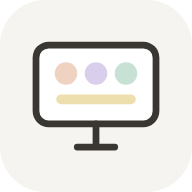
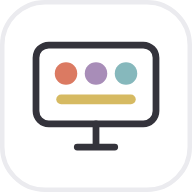
White background and a muted pastel palette
Ten muted pastel tones (coral, teal, mustard, lavender, pink, sage, apricot, periwinkle, mauve, moss) on a white background, each with a text shade that meets 4.5:1 contrast. Team boxes are outlined in the palette colour. Icon updated to match; offline cache bumped to v5.

diff --git a/styles.css b/styles.css
@@ -6,17 +6,17 @@
   font-display: swap;
 }
 
-/* ---------- Palette: warm neutrals + muted pastels ---------- */
+/* ---------- Palette: white + muted pastels ---------- */
 :root {
-  --bg: #f6f4f0;
+  --bg: #ffffff;
   --surface: #ffffff;
-  --hover: #f3f1ec;
-  --line: #ebe7e0;
-  --line-strong: #dcd7ce;
-  --ink: #34312d;
-  --ink-soft: #7c776f;
-  --ink-faint: #b2ada4;
-  --charcoal: #3a3733;
+  --hover: #f4f4f7;
+  --line: #ebebef;
+  --line-strong: #d9d9e0;
+  --ink: #2f2e35;
+  --ink-soft: #6f6d78;
+  --ink-faint: #aeacb7;
+  --charcoal: #34333b;
 
   --ui: "Figtree", "Segoe UI", system-ui, sans-serif;
   --hand: "Edu NSW ACT Foundation", "Figtree", cursive;
@@ -27,16 +27,21 @@
   --rail-w: 88px;
 
   /* default tone (overridden by .tone-*) */
-  --t-bg: #f1eee8;
-  --t-mid: #e0dbd2;
-  --t-ink: #6f6a62;
+  --t-bg: #f4f4f7;
+  --t-mid: #d9d9e0;
+  --t-ink: #5d5b66;
 }
-.tone-peach    { --t-bg: #fbeee7; --t-mid: #f0d2c3; --t-ink: #a5634d; }
-.tone-lavender { --t-bg: #f0ecf7; --t-mid: #d9cfec; --t-ink: #74629d; }
-.tone-mint     { --t-bg: #e8f3ee; --t-mid: #c7e2d5; --t-ink: #4c8470; }
-.tone-sky      { --t-bg: #e8f0f7; --t-mid: #c9dbec; --t-ink: #4d7398; }
-.tone-rose     { --t-bg: #f8eaee; --t-mid: #ebcbd4; --t-ink: #9b5d6f; }
-.tone-butter   { --t-bg: #faf3de; --t-mid: #eedfae; --t-ink: #87703a; }
+/* muted pastels: tint (backgrounds), mid (outlines, accents), ink (text, readable on white and tint) */
+.tone-coral      { --t-bg: #f8e4e0; --t-mid: #db7a62; --t-ink: #a8472f; }
+.tone-teal       { --t-bg: #e7f1f2; --t-mid: #86b8bc; --t-ink: #447074; }
+.tone-mustard    { --t-bg: #f7f1e0; --t-mid: #d6ba62; --t-ink: #7d6827; }
+.tone-lavender   { --t-bg: #eee8f1; --t-mid: #a88db8; --t-ink: #7b5c8d; }
+.tone-pink       { --t-bg: #f8e9ef; --t-mid: #dc93ae; --t-ink: #af4169; }
+.tone-sage       { --t-bg: #ebf3ed; --t-mid: #9dc3a6; --t-ink: #4c7656; }
+.tone-apricot    { --t-bg: #f9ece4; --t-mid: #e2a27a; --t-ink: #9e572a; }
+.tone-periwinkle { --t-bg: #e8eaf1; --t-mid: #8e95ba; --t-ink: #5c6590; }
+.tone-mauve      { --t-bg: #f3ebf0; --t-mid: #c59ab6; --t-ink: #8e567b; }
+.tone-moss       { --t-bg: #eff5eb; --t-mid: #afcb9c; --t-ink: #557441; }
 
 * { box-sizing: border-box; }
 [hidden] { display: none !important; }
@@ -106,7 +111,7 @@ button { cursor: pointer; }
 }
 .rail-slides { background: var(--charcoal); color: #fff; }
 .rail-install { color: var(--ink); background: var(--bg); }
-.rail-slides:hover { background: #4a4641; color: #fff; }
+.rail-slides:hover { background: #4a4952; color: #fff; }
 
 .rail-btn:focus-visible, .btn:focus-visible, .w-btn:focus-visible, .switch-card:focus-visible,
 .w-select:focus-visible, .x:focus-visible {
@@ -121,7 +126,7 @@ body.rail-hidden #rail { display: none; }
   background: var(--surface); color: var(--ink-soft);
   font-size: 20px; font-weight: 700;
   padding: 10px 12px 12px; opacity: .6;
-  box-shadow: 0 6px 20px -8px #34312d40;
+  box-shadow: 0 6px 20px -8px #2f2e3540;
 }
 #rail-show:hover { opacity: 1; }
 body.rail-hidden #rail-show { display: block; }
@@ -140,13 +145,13 @@ body.dragging iframe { pointer-events: none; }
 .empty .btn { font-size: 18px; padding: 14px 28px; }
 
 .pdf-wrap { flex: 1; min-width: 0; display: grid; place-items: center; position: relative; overflow: hidden; }
-.pdf-wrap canvas { background: #fff; display: block; border-radius: 6px; box-shadow: 0 2px 16px -6px #34312d33; }
+.pdf-wrap canvas { background: #fff; display: block; border-radius: 6px; box-shadow: 0 2px 16px -6px #2f2e3533; }
 .pdf-nav {
   position: absolute; bottom: 16px; left: 50%; transform: translateX(-50%);
   display: flex; align-items: center; gap: 6px;
   background: #ffffffe6; color: var(--ink); border: 1px solid var(--line);
   border-radius: 999px; padding: 6px; font-weight: 600;
-  box-shadow: 0 8px 24px -10px #34312d40;
+  box-shadow: 0 8px 24px -10px #2f2e3540;
   opacity: .4; transition: opacity .15s;
 }
 .pdf-wrap:hover .pdf-nav, .pdf-nav:focus-within { opacity: 1; }
@@ -167,17 +172,17 @@ body.dragging iframe { pointer-events: none; }
 }
 .btn:hover { background: var(--hover); }
 .btn.primary { background: var(--charcoal); border-color: var(--charcoal); color: #fff; }
-.btn.primary:hover { background: #4a4641; }
+.btn.primary:hover { background: #4a4952; }
 .btn.danger { color: #a4524a; }
 .btn.small { padding: 5px 12px; font-size: 14px; }
 
 dialog {
   border: 0; border-radius: var(--r-xl); padding: 0; width: min(580px, calc(100vw - 32px));
   max-height: calc(100vh - 48px); color: var(--ink); background: var(--surface);
-  box-shadow: 0 30px 80px -20px #34312d59;
+  box-shadow: 0 30px 80px -20px #2f2e3559;
 }
 dialog[open] { display: flex; flex-direction: column; }
-dialog::backdrop { background: #34312d40; backdrop-filter: blur(3px); }
+dialog::backdrop { background: #2f2e3540; backdrop-filter: blur(3px); }
 .dlg-head { display: flex; align-items: center; padding: 20px 22px 8px 26px; margin: 0; }
 .dlg-head h2 { margin: 0; flex: 1; font-size: 22px; font-weight: 600; }
 .x { border: 0; background: transparent; color: var(--ink-soft); font-size: 18px; width: 40px; height: 40px; border-radius: 50%; }
@@ -251,7 +256,7 @@ dialog::backdrop { background: #34312d40; backdrop-filter: blur(3px); }
   position: fixed; display: flex; flex-direction: column;
   background: var(--surface); border-radius: var(--r-xl);
   border: 1px solid var(--line);
-  box-shadow: 0 1px 2px #34312d0d, 0 18px 40px -14px #34312d40;
+  box-shadow: 0 1px 2px #2f2e350d, 0 18px 40px -14px #2f2e3540;
   min-width: 190px; min-height: 150px; overflow: hidden;
 }
 .w-head {
@@ -311,7 +316,7 @@ dialog::backdrop { background: #34312d40; backdrop-filter: blur(3px); }
 
 /* groups */
 .groups { flex: 1; min-height: 0; overflow-y: auto; display: grid; gap: 8px; grid-template-columns: repeat(auto-fill, minmax(124px, 1fr)); align-content: start; }
-.group { background: var(--t-bg); border-radius: var(--r-md); padding: 10px 12px 12px; }
+.group { background: var(--t-bg); border-radius: var(--r-md); padding: 10px 12px 12px; border-top: 4px solid var(--t-mid); }
 .group h4 { margin: 0 0 4px; font-size: 11px; font-weight: 600; text-transform: uppercase; letter-spacing: .08em; color: var(--t-ink); }
 .group ul { margin: 0; padding: 0; list-style: none; font-family: var(--hand); font-weight: 500; font-size: 19px; line-height: 1.4; color: var(--ink); }
 
@@ -331,12 +336,12 @@ dialog::backdrop { background: #34312d40; backdrop-filter: blur(3px); }
 .die {
   --s: min(calc(80cqw / var(--cols)), calc(48cqh / var(--rows)));
   width: var(--s); height: var(--s); border-radius: 24%;
-  background: #fff; border: max(1.5px, calc(var(--s) * .025)) solid #5d5953;
+  background: #fff; border: max(1.5px, calc(var(--s) * .025)) solid #55545c;
   display: grid; grid-template: repeat(3, 1fr) / repeat(3, 1fr); padding: 13%;
   box-shadow: 0 calc(var(--s) * .04) 0 var(--t-mid);
 }
 .die i { border-radius: 50%; margin: 16%; }
-.die i.p { background: #4f4b46; }
+.die i.p { background: #45444c; }
 .die.num { display: grid; place-items: center; padding: 0; font-weight: 600; font-size: calc(var(--s) * .45); grid-template: none; color: var(--ink); }
 .die.roll { animation: shake .12s linear infinite; }
 @keyframes shake { 25% { transform: rotate(-6deg); } 75% { transform: rotate(6deg); } }
@@ -394,12 +399,12 @@ dialog::backdrop { background: #34312d40; backdrop-filter: blur(3px); }
 .gbg-teams { flex: 1; min-width: 0; display: grid; gap: 6px; grid-template-columns: repeat(var(--n), minmax(0, 1fr)); }
 .gbg-team {
   min-width: 0; display: flex; align-items: center; gap: 4px; padding: 2px 5px 2px 11px;
-  border: 2px solid var(--t-ink); border-radius: 14px; background: transparent;
+  border: 2px solid var(--t-mid); border-radius: 14px; background: transparent;
   cursor: pointer; user-select: none; transition: background .15s, opacity .2s;
 }
 .gbg-team:hover { background: var(--hover); }
 .gbg-team:focus-visible { outline: 2px solid var(--ink); outline-offset: 2px; }
-.gbg-team.win { background: var(--t-bg); border-width: 3px; }
+.gbg-team.win { background: var(--t-bg); border-color: var(--t-ink); border-width: 3px; }
 .gbg-team.over { opacity: .4; }
 .gbg-team[aria-disabled="true"] { cursor: default; }
 .gbg-label { flex: 1; min-width: 0; display: flex; flex-direction: column; line-height: 1.05; }

diff --git a/app.js b/app.js
@@ -50,7 +50,7 @@ const icon = name => {
 document.querySelectorAll('[data-icon]').forEach(n => n.replaceWith(icon(n.dataset.icon)));
 
 /* muted pastel tones; each name always gets the same one */
-const TONES = ['peach', 'lavender', 'mint', 'sky', 'rose', 'butter'];
+const TONES = ['coral', 'teal', 'mustard', 'lavender', 'pink', 'sage', 'apricot', 'periwinkle', 'mauve', 'moss'];
 const toneOf = text => {
   let h = 0;
   for (const ch of text) h = (h * 31 + ch.codePointAt(0)) >>> 0;
@@ -587,7 +587,7 @@ const PIPS = { 1: [4], 2: [0, 8], 3: [0, 4, 8], 4: [0, 2, 6, 8], 5: [0, 2, 4, 6,
 
 const WIDGETS = {
   picker: {
-    title: 'Student picker', icon: 'picker', tone: 'peach', w: 340, h: 280,
+    title: 'Student picker', icon: 'picker', tone: 'coral', w: 340, h: 280,
     build(root, d) {
       const cls = activeClass();
       if (!cls.students.length) { root.append(needClass()); return; }
@@ -713,7 +713,7 @@ const WIDGETS = {
   },
 
   dice: {
-    title: 'Dice', icon: 'dice', tone: 'mint', w: 320, h: 300,
+    title: 'Dice', icon: 'dice', tone: 'teal', w: 320, h: 300,
     build(root, d) {
       d.count ||= 1; d.sides ||= 6;
       const tray = el('div', { class: 'dice' });
@@ -756,7 +756,7 @@ const WIDGETS = {
   },
 
   counter: {
-    title: 'Counter', icon: 'counter', tone: 'sky', w: 320, h: 240,
+    title: 'Counter', icon: 'counter', tone: 'periwinkle', w: 320, h: 240,
     build(root, d) {
       /* scores are kept per class; a new class starts with the same counter names at 0 */
       d.byClass ||= {};
@@ -786,7 +786,7 @@ const WIDGETS = {
   },
 
   gbg: {
-    title: 'Good Behaviour Game', icon: 'gbg', tone: 'mint', w: 760, h: 128, minH: 100, slim: true,
+    title: 'Good Behaviour Game', icon: 'gbg', tone: 'sage', w: 760, h: 128, minH: 100, slim: true,
     /* starts as a strip along the bottom of the screen, out of the way of the slides */
     pos: () => ({ x: Math.max(100, Math.round((innerWidth - 760) / 2)), y: Math.max(0, innerHeight - 128 - 16) }),
     build(root, d) {
@@ -932,7 +932,7 @@ const WIDGETS = {
   },
 
   timer: {
-    title: 'Timer', icon: 'timer', tone: 'rose', w: 340, h: 270,
+    title: 'Timer', icon: 'timer', tone: 'pink', w: 340, h: 270,
     build(root, d) {
       d.total ||= 300;
       d.mode ||= 'down';
@@ -993,7 +993,7 @@ const WIDGETS = {
   },
 
   note: {
-    title: 'Note', icon: 'note', tone: 'butter', w: 300, h: 240,
+    title: 'Note', icon: 'note', tone: 'mustard', w: 300, h: 240,
     build(root, d) {
       d.size ||= 28;
       const area = el('textarea', { class: 'note-area', placeholder: 'Type a reminder, instruction or learning goal…',

diff --git a/sw.js b/sw.js
@@ -2,7 +2,7 @@
    After the first visit everything the board needs is kept on this device, so it opens
    with no internet, and even if a network filter later blocks the site.
    Bump VERSION whenever the app files change so devices pick up the update. */
-const VERSION = 'v4';
+const VERSION = 'v5';
 const CACHE = `classroom-board-${VERSION}`;
 const CORE = [
   './', './index.html', './styles.css', './app.js', './manifest.webmanifest',

diff --git a/index.html b/index.html
@@ -4,7 +4,7 @@
 <meta charset="utf-8">
 <meta name="viewport" content="width=device-width, initial-scale=1">
 <title>Classroom Board</title>
-<meta name="theme-color" content="#f6f4f0">
+<meta name="theme-color" content="#ffffff">
 <link rel="manifest" href="manifest.webmanifest">
 <link rel="icon" href="icon.svg" type="image/svg+xml">
 <link rel="apple-touch-icon" href="icon-192.png">
